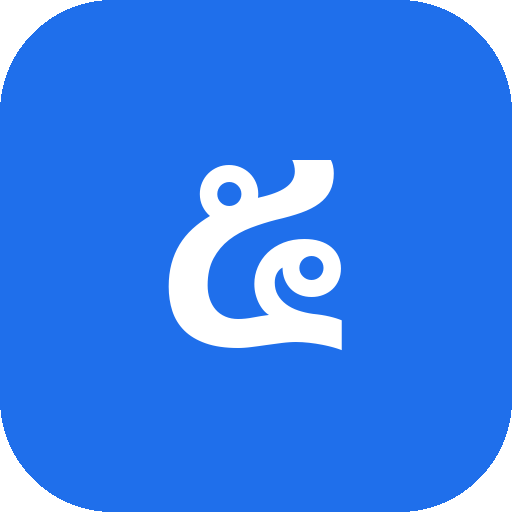
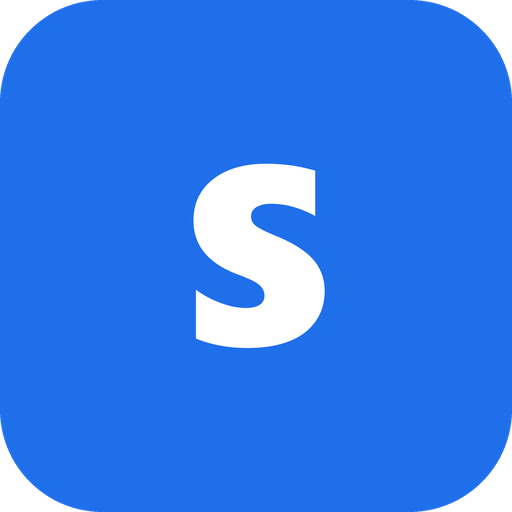
เปลี่ยนชื่อแอปเป็น KruSpace
ชื่อเดิม "ปพ.5 Online" บอกว่าแอปทำเอกสารหนึ่งใบ แต่ของจริงครูใช้ทั้งวัน
ทั้งเช็กชื่อ แลกคาบ ส่งใบลา และผู้บริหารดูภาพรวมทั้งโรงเรียน ชื่อใหม่จึงพูดถึง
พื้นที่ทำงาน ส่วน ปพ.5 ยังเป็นชื่อเอกสารที่แอปผลิตออกมา คำนั้นในระบบไม่แตะ

- แถบบน หัวเรื่องหน้าเว็บ ชื่อตอนติดตั้งเป็นแอป และ manifest
- ตัวอักษรในตราเปลี่ยนจากเลข ๕ เป็น S พร้อมวาดไอคอนใหม่ 4 ไฟล์
  บนพื้นสีเดิม #1f6feb ยึดสัดส่วนเดิมทุกอย่าง (มุมโค้ง 20% ตัวอักษรสูง 36%
  ส่วนไฟล์ maskable เหลือ 27% เพราะระบบครอบเป็นวงกลม)
- หน้าเข้าใช้งานยังขึ้นชื่อโรงเรียนเป็นหลักเหมือนเดิม ชื่อแอปเป็นค่าสำรอง
  และเพิ่มไว้ที่บรรทัดล่างเพื่อให้รู้ว่ากำลังใช้ระบบอะไร
- bump CACHE_VERSION เป็น v55

ไม่เปลี่ยน: ที่อยู่เว็บ ชื่อ repo คีย์ข้อมูลในเครื่อง gradebook.v1 และโปรเจกต์
Firestore ครูที่บุ๊กมาร์กหรือติดตั้งไว้แล้วไม่ต้องทำอะไร

diff --git a/index.html b/index.html
@@ -3,16 +3,16 @@
 <head>
 <meta charset="utf-8">
 <meta name="viewport" content="width=device-width,initial-scale=1,viewport-fit=cover">
-<title>ปพ.5 Online - สมุดคะแนนอัจฉริยะ</title>
+<title>KruSpace</title>
 <!-- ติดตั้งเป็นแอปบนคอม มือถือ และไอแพด (PWA) -->
 <link rel="manifest" href="./manifest.webmanifest">
 <meta name="theme-color" content="#1f6feb">
-<meta name="description" content="บันทึกคะแนน เวลาเรียน ตารางสอน แลกคาบและการลา สำหรับครูและผู้บริหาร">
+<meta name="description" content="KruSpace — บันทึกคะแนน เวลาเรียน ตารางสอน แลกคาบและการลา สำหรับครูและผู้บริหาร">
 <link rel="icon" href="./icons/icon-192.png" type="image/png">
 <link rel="apple-touch-icon" href="./icons/apple-touch-icon.png">
 <meta name="apple-mobile-web-app-capable" content="yes">
 <meta name="apple-mobile-web-app-status-bar-style" content="default">
-<meta name="apple-mobile-web-app-title" content="ปพ.5 Online">
+<meta name="apple-mobile-web-app-title" content="KruSpace">
 <style>
 /* ============================================================
    ธีมและตัวแปรสี
@@ -64,7 +64,7 @@ button,input,select,textarea{font-family:inherit;font-size:inherit;color:inherit
 .brand{font-weight:800;font-size:17px;white-space:nowrap;display:flex;align-items:center;gap:9px;letter-spacing:-.2px}
 .brand small{display:block;font-size:10.5px;line-height:1.1;color:var(--muted);font-weight:600;letter-spacing:.2px}
 .brand .dot{width:30px;height:30px;border-radius:10px;background:var(--hero);display:inline-grid;place-items:center;color:#fff;box-shadow:0 6px 14px rgba(31,111,235,.28)}
-.brand .dot:after{content:'๕';font-size:17px;font-weight:800}
+.brand .dot:after{content:'S';font-size:17px;font-weight:800}
 .pickers{display:flex;gap:8px;align-items:center;flex-wrap:wrap}
 .pick{display:flex;align-items:center;gap:5px}
 .pick label{font-size:13px;color:var(--muted);white-space:nowrap}
@@ -916,7 +916,7 @@ th.sortable:hover{color:var(--brand);text-decoration:underline}
 
 <div class="stickytop">
 <header class="topbar">
-  <div class="brand"><span class="dot"></span><span>ปพ.5 Online<small>SMART GRADEBOOK</small></span></div>
+  <div class="brand"><span class="dot"></span><span>KruSpace<small>ห้องทำงานของครู</small></span></div>
   <div class="pickers">
     <div class="pick" data-pick="period">
       <label for="selPeriod">ปี/ภาค</label>
@@ -10014,11 +10014,11 @@ function showRoleGateway() {
   const s = DB.settings, logo = s.logoData || './icons/school-logo.png';
   gateway.innerHTML = '<div class="gateway-shell"><div class="gateway-brand">' +
       '<img class="brand-logo" src="' + esc(logo) + '" alt="ตราโรงเรียน" onerror="this.style.display=\'none\'">' +
-      '<h1>' + esc(s.schoolName || 'ปพ.5 Online') + '</h1>' +
+      '<h1>' + esc(s.schoolName || 'KruSpace') + '</h1>' +
       (s.schoolLocation ? '<p>' + esc(s.schoolLocation) + '</p>' : '') +
       (s.educationOffice ? '<p>สังกัดสำนักงานเขตพื้นที่การศึกษา' + esc(s.educationOffice) + '</p>' : '') + '</div>' +
     roleWheelHtml() +
-    '<div class="gateway-foot"><span class="gateway-storage">' + esc(storageText) + '</span><span>ข้อมูลนักเรียนเป็นข้อมูลส่วนบุคคล ควรเข้าใช้ด้วยบัญชีของตนเองและออกจากระบบทุกครั้ง</span></div></div>';
+    '<div class="gateway-foot"><span class="gateway-storage">KruSpace • ' + esc(storageText) + '</span><span>ข้อมูลนักเรียนเป็นข้อมูลส่วนบุคคล ควรเข้าใช้ด้วยบัญชีของตนเองและออกจากระบบทุกครั้ง</span></div></div>';
   const nameBox = $('#wheelName', gateway);
   $$('[data-gateway-role]', gateway).forEach(g => {
     const role = g.dataset.gatewayRole, label = g.getAttribute('aria-label');
@@ -10371,7 +10371,7 @@ function showIOSInstallHelp() {
       '<ol style="margin:12px 0 0 18px;line-height:2">' +
       '<li>กดปุ่ม <b>แชร์</b> (รูปสี่เหลี่ยมมีลูกศรขึ้น) ที่แถบล่างหรือมุมขวาบนของ Safari</li>' +
       '<li>เลื่อนหาแล้วกด <b>เพิ่มไปยังหน้าจอโฮม</b> (Add to Home Screen)</li>' +
-      '<li>กด <b>เพิ่ม</b> มุมขวาบน จะได้ไอคอน “ปพ.5 Online” บนหน้าจอ</li></ol>' +
+      '<li>กด <b>เพิ่ม</b> มุมขวาบน จะได้ไอคอน “KruSpace” บนหน้าจอ</li></ol>' +
       '<div class="hint" style="margin-top:12px">ต้องเปิดด้วย Safari เท่านั้น ถ้าเปิดจาก Chrome บน iOS จะไม่มีเมนูนี้</div>' });
 }
 

diff --git a/sw.js b/sw.js
@@ -1,11 +1,11 @@
-/* Service Worker ของ ปพ.5 Online
+/* Service Worker ของ KruSpace
    หน้าที่หลักคือทำให้เปิดแอปได้แม้เน็ตหลุด และติดตั้งลงมือถือ/ไอแพดเป็นไอคอนแอปได้
    ข้อมูลคะแนนและตารางสอนยังอยู่ใน localStorage ของเครื่องเหมือนเดิม ไฟล์นี้ไม่ยุ่งกับข้อมูล
 
    วิธีอัปเดตแอปหลังแก้โค้ด: เปลี่ยนเลขเวอร์ชันที่ CACHE_VERSION แล้วอัปโหลดใหม่
    ผู้ใช้จะเห็นแถบแจ้ง "มีเวอร์ชันใหม่" ให้กดอัปเดต */
 
-const CACHE_VERSION = 'v54';
+const CACHE_VERSION = 'v55';
 const CACHE_NAME = 'gradebook-' + CACHE_VERSION;
 
 /* ไฟล์แกนของแอป โหลดไว้ล่วงหน้าให้เปิดออฟไลน์ได้ */

diff --git a/README.md b/README.md
@@ -1,4 +1,4 @@
-# ปพ.5 Online — โรงเรียนปากช่อง
+# KruSpace — โรงเรียนปากช่อง
 
 ระบบบันทึกคะแนน เวลาเรียน ตารางสอน แลกคาบ/การลา และกิจกรรมนักเรียน
 ทำงานเป็นเว็บแอปไฟล์เดียว ติดตั้งเป็นแอปบนมือถือ/ไอแพดได้ (PWA) และใช้ Firebase เป็นฐานข้อมูลกลาง
